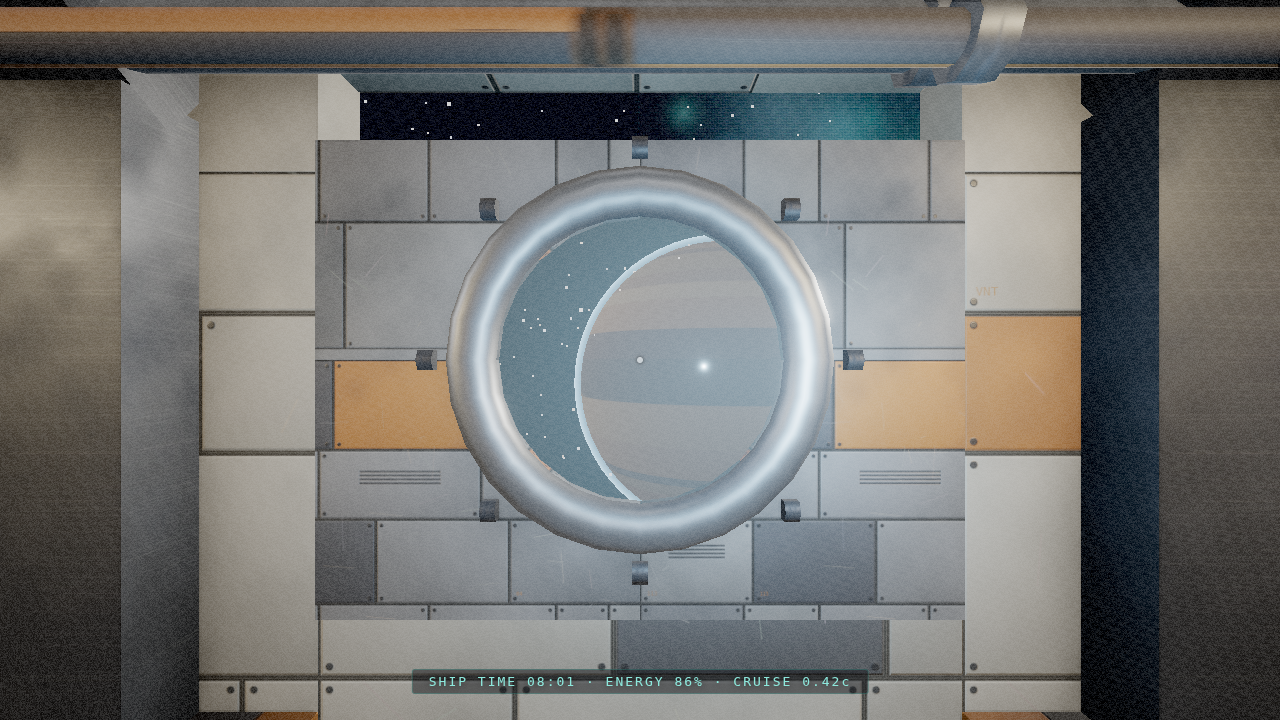
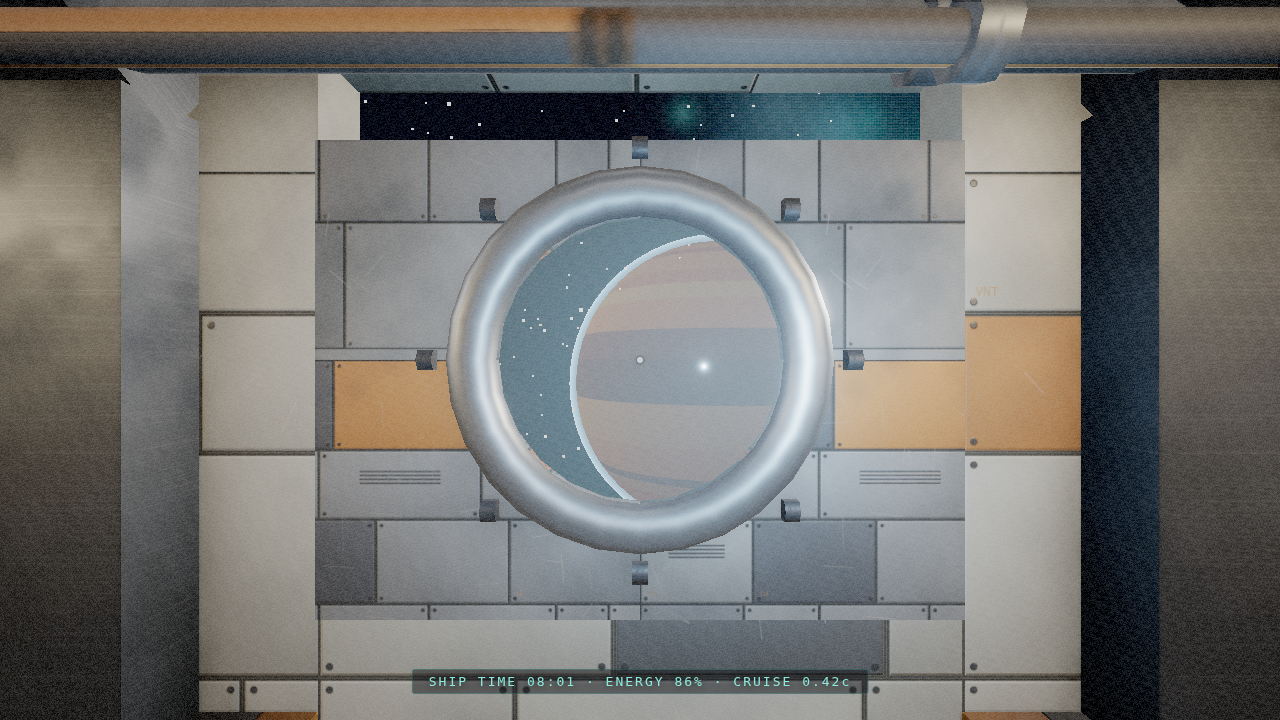
fix: seat silhouettes, planet contrast, shoot rig process cleanup

diff --git a/src/ship.js b/src/ship.js
@@ -445,6 +445,36 @@ export function buildShip(scene) {
     ship.add(dashboard);
   }
 
+  // cockpit side-wall dressing: conduit boxes, vents, small tanks
+  {
+    const geosDark = [], geosMetal = [], geosAccent = [];
+    for (const s of [-1, 1]) {
+      const wx = s * (2.6 - 0.06);
+      for (let i = 0; i < 3; i++) {
+        const z = -7.7 - i * 0.9;
+        const g = new THREE.BoxGeometry(0.1, 0.3 + (i % 2) * 0.25, 0.4);
+        g.translate(wx, 1.1 + (i % 2) * 0.5, z);
+        (i === 1 ? geosAccent : geosDark).push(g);
+      }
+      for (let k = 0; k < 4; k++) {
+        const v = new THREE.BoxGeometry(0.06, 0.035, 0.5);
+        v.translate(wx, 1.95 + k * 0.07, -8.2);
+        geosDark.push(v);
+      }
+      const tank = new THREE.CylinderGeometry(0.12, 0.12, 0.7, 12);
+      tank.translate(wx - s * 0.08, 0.55, -7.5);
+      geosMetal.push(tank);
+      // overhead conduit into the dash
+      const cond = new THREE.CylinderGeometry(0.04, 0.04, 3.2, 8);
+      cond.rotateX(Math.PI / 2);
+      cond.translate(s * 1.8, CEIL_H - 0.22, -9.2);
+      geosMetal.push(cond);
+    }
+    ship.add(new THREE.Mesh(mergeGeometries(geosDark), M.darkMetal));
+    ship.add(new THREE.Mesh(mergeGeometries(geosMetal), M.metal));
+    ship.add(new THREE.Mesh(mergeGeometries(geosAccent), M.accent));
+  }
+
   // pilot seats
   for (const s of [-1, 1]) {
     const seat = new THREE.Group();
@@ -452,10 +482,13 @@ export function buildShip(scene) {
     base.position.y = 0.2; seat.add(base);
     const cushion = box(0.56, 0.14, 0.52, M.fabric, 2);
     cushion.position.y = 0.47; seat.add(cushion);
-    const back = box(0.56, 0.75, 0.14, M.fabric, 2);
-    back.position.set(0, 0.85, 0.3); back.rotation.x = 0.12; seat.add(back);
-    const head = box(0.34, 0.22, 0.12, M.fabricWarm, 2);
-    head.position.set(0, 1.32, 0.36); seat.add(head);
+    const back = box(0.56, 1.0, 0.14, M.fabric, 2);
+    back.position.set(0, 0.98, 0.3); back.rotation.x = 0.12; seat.add(back);
+    const head = box(0.4, 0.18, 0.06, M.rubber, 2);
+    head.position.set(0, 1.34, 0.28); seat.add(head);
+    // back shell frame
+    const shell = box(0.6, 1.04, 0.05, M.darkMetal, 1);
+    shell.position.set(0, 0.98, 0.39); shell.rotation.x = 0.12; seat.add(shell);
     for (const as of [-1, 1]) {
       const arm = box(0.08, 0.08, 0.42, M.rubber, 1);
       arm.position.set(as * 0.33, 0.62, 0.08); seat.add(arm);

diff --git a/src/space.js b/src/space.js
@@ -75,6 +75,14 @@ function planetCanvas(seed) {
       out.data[di + 2] = img.data[si + 2]; out.data[di + 3] = 255;
     }
   }
+  // contrast + saturation punch so bands read from far away
+  for (let i = 0; i < out.data.length; i += 4) {
+    const rr = out.data[i], gg = out.data[i + 1], bb = out.data[i + 2];
+    const lum = rr * 0.3 + gg * 0.59 + bb * 0.11;
+    out.data[i] = Math.max(0, Math.min(255, (lum + (rr - lum) * 1.5 - 128) * 1.22 + 128));
+    out.data[i + 1] = Math.max(0, Math.min(255, (lum + (gg - lum) * 1.5 - 128) * 1.22 + 128));
+    out.data[i + 2] = Math.max(0, Math.min(255, (lum + (bb - lum) * 1.5 - 128) * 1.22 + 128));
+  }
   ctx.putImageData(out, 0, 0);
   // storm spots
   for (let i = 0; i < 7; i++) {

diff --git a/src/textures.js b/src/textures.js
@@ -522,7 +522,7 @@ export function createMaterials() {
     color: '#201408', emissive: '#ffc37a', emissiveIntensity: 2.6, roughness: 0.4,
   });
   M.stripWhite = new THREE.MeshStandardMaterial({
-    color: '#1a1c1e', emissive: '#fff4e0', emissiveIntensity: 2.2, roughness: 0.4,
+    color: '#1a1c1e', emissive: '#fff4e0', emissiveIntensity: 1.7, roughness: 0.4,
   });
   M.stripRed = new THREE.MeshStandardMaterial({
     color: '#1a0505', emissive: '#ff5230', emissiveIntensity: 1.8, roughness: 0.4,

diff --git a/PROGRESS.md b/PROGRESS.md
@@ -43,3 +43,14 @@
 - ❌ Galley shot framed into a wall; reframe.
 - ❌ Ceiling fixtures blow to white discs.
 - ❌ Planet bands pale, washed.
+
+## Iteration 4 — cockpit seats + planet punch + shoot rig hardening
+- Seat headrest was a huge cream box from behind (fabricWarm + warm light) → tall dark shell-back chairs.
+- Planet canvas: +contrast/+saturation pass — bands now read through the viewport.
+- Galley reframed; cockpit side-wall greebles (conduits, tanks, vents).
+- shoot.mjs: vite killed via process group (orphaned port caused intermittent "vite timeout").
+
+### Judge notes
+- ✅ Cockpit now reads: planet through panes, glowing consoles, proper pilot chairs.
+- ❌ Star drift too slow to read "flying" within 5 s at a window.
+- ❌ Cockpit side walls still plain; ceiling fixtures hot.
